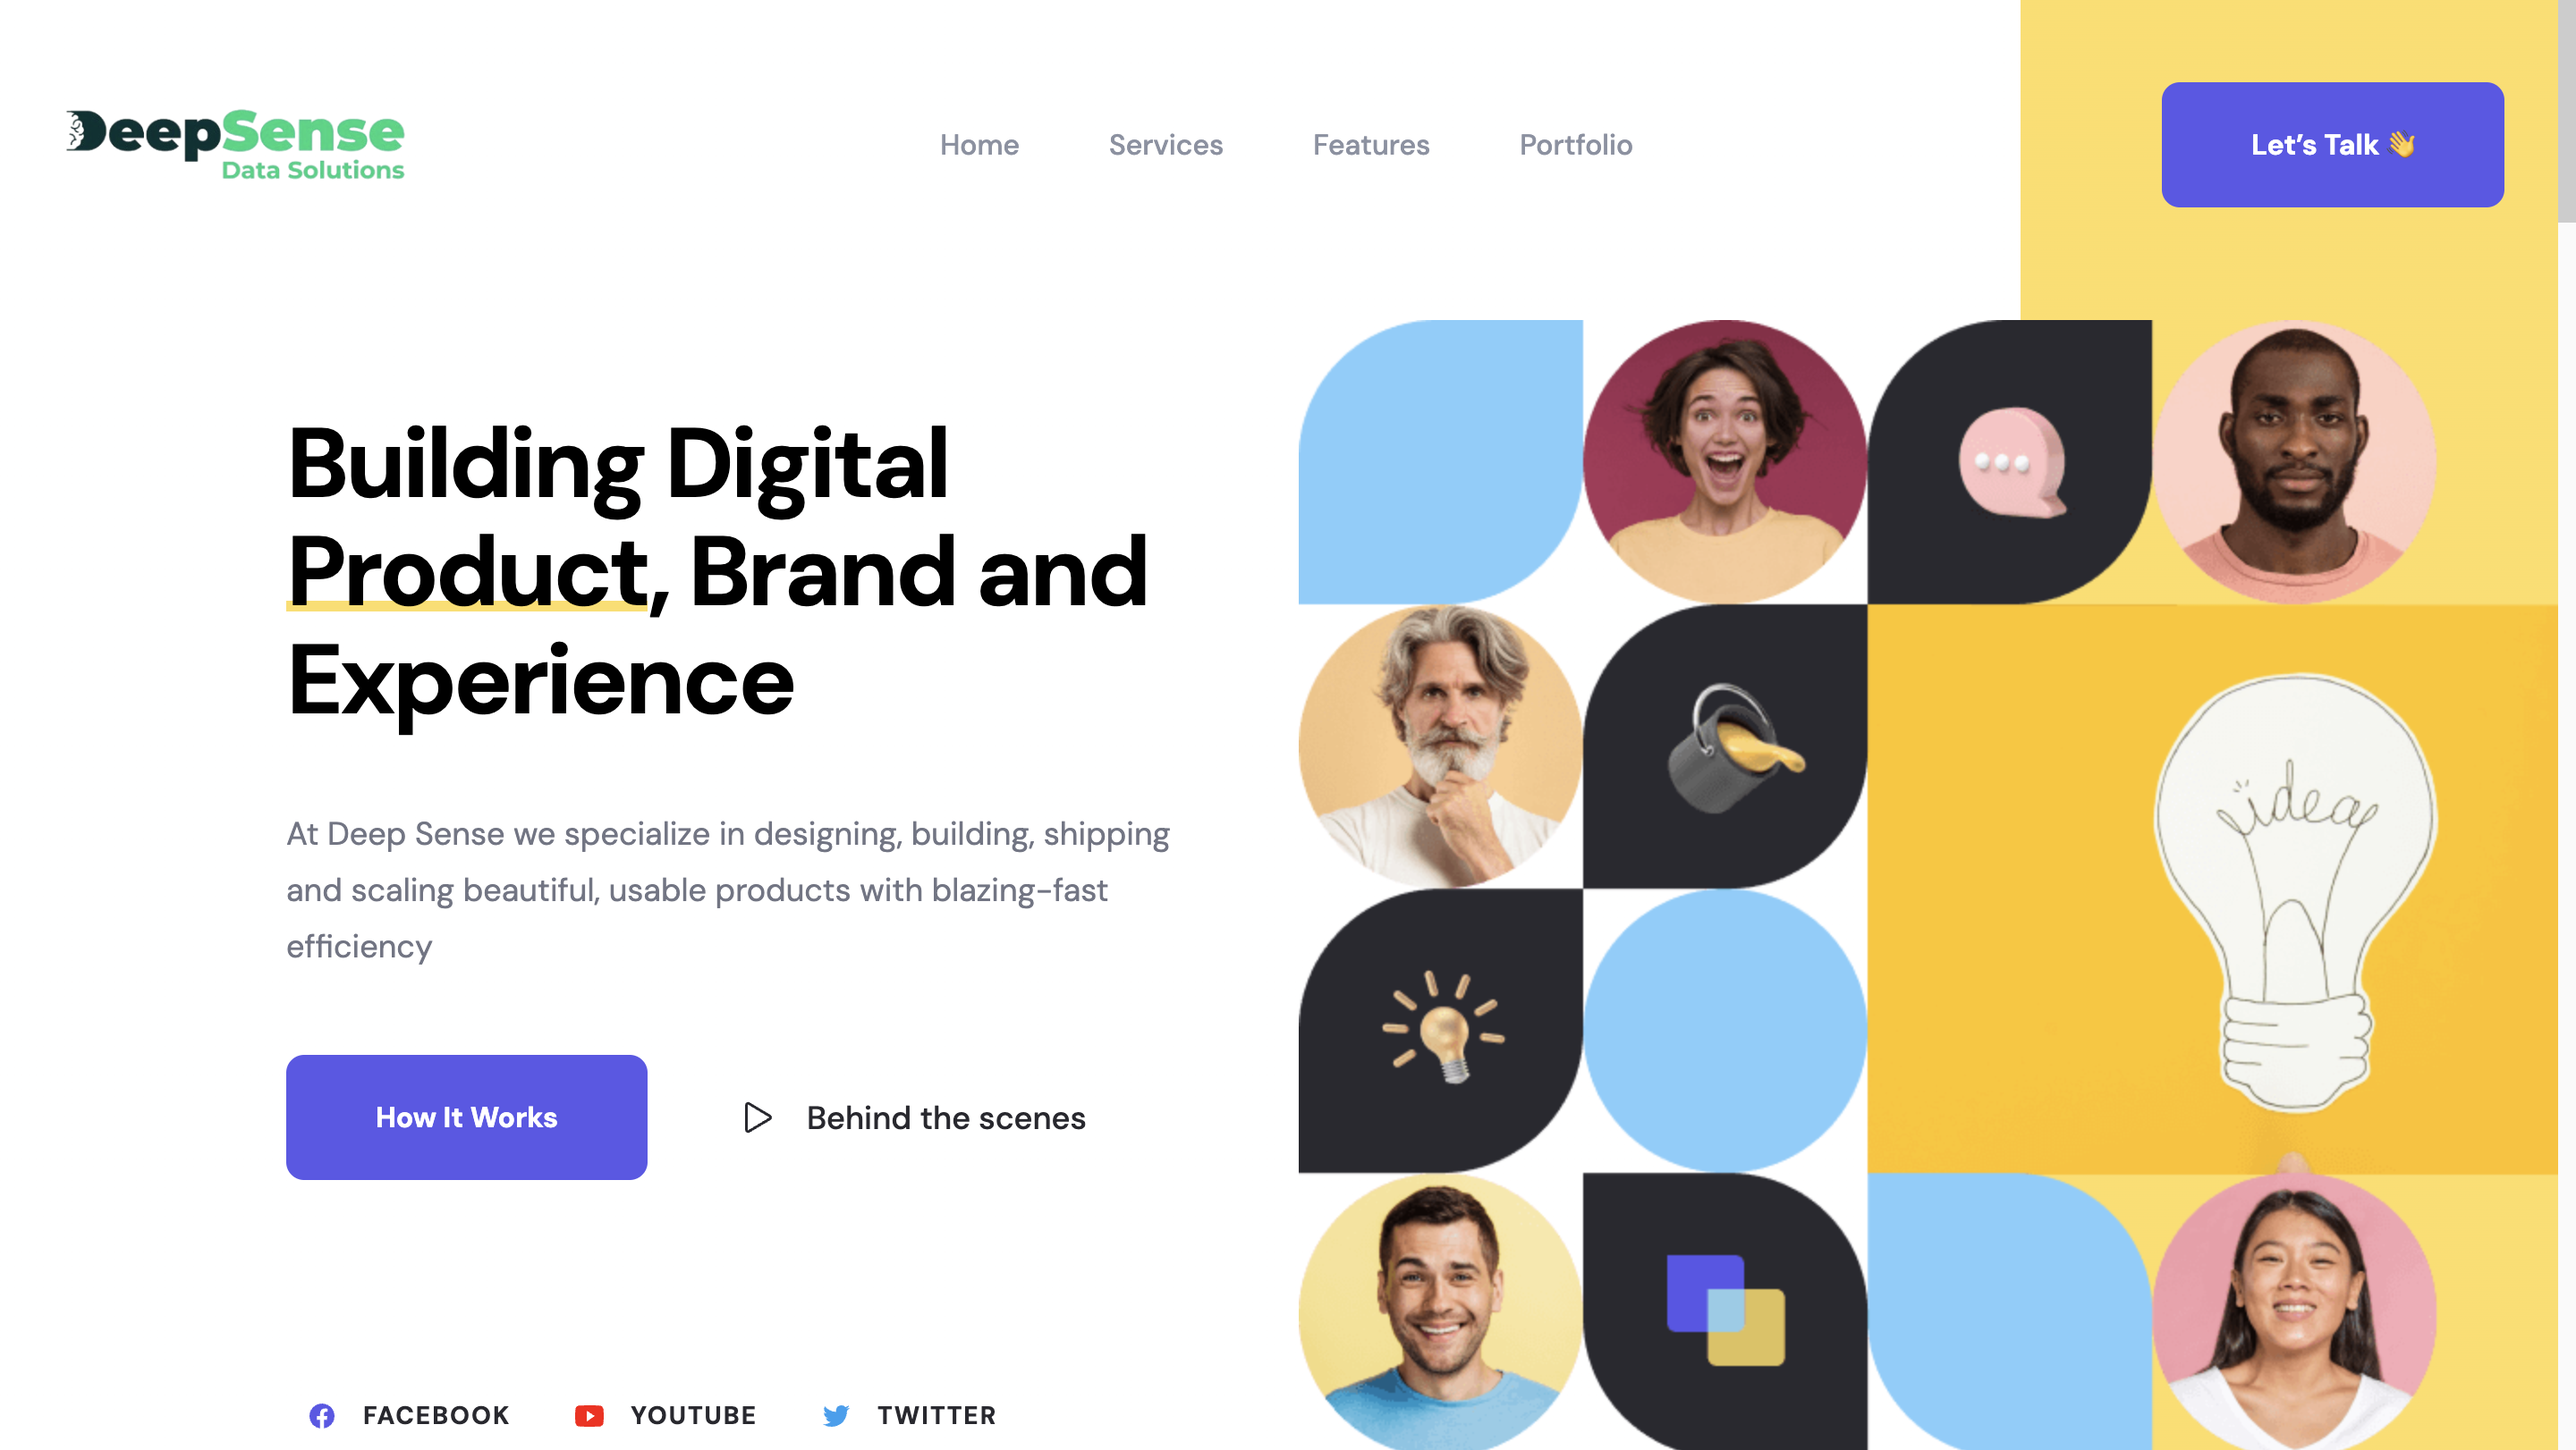
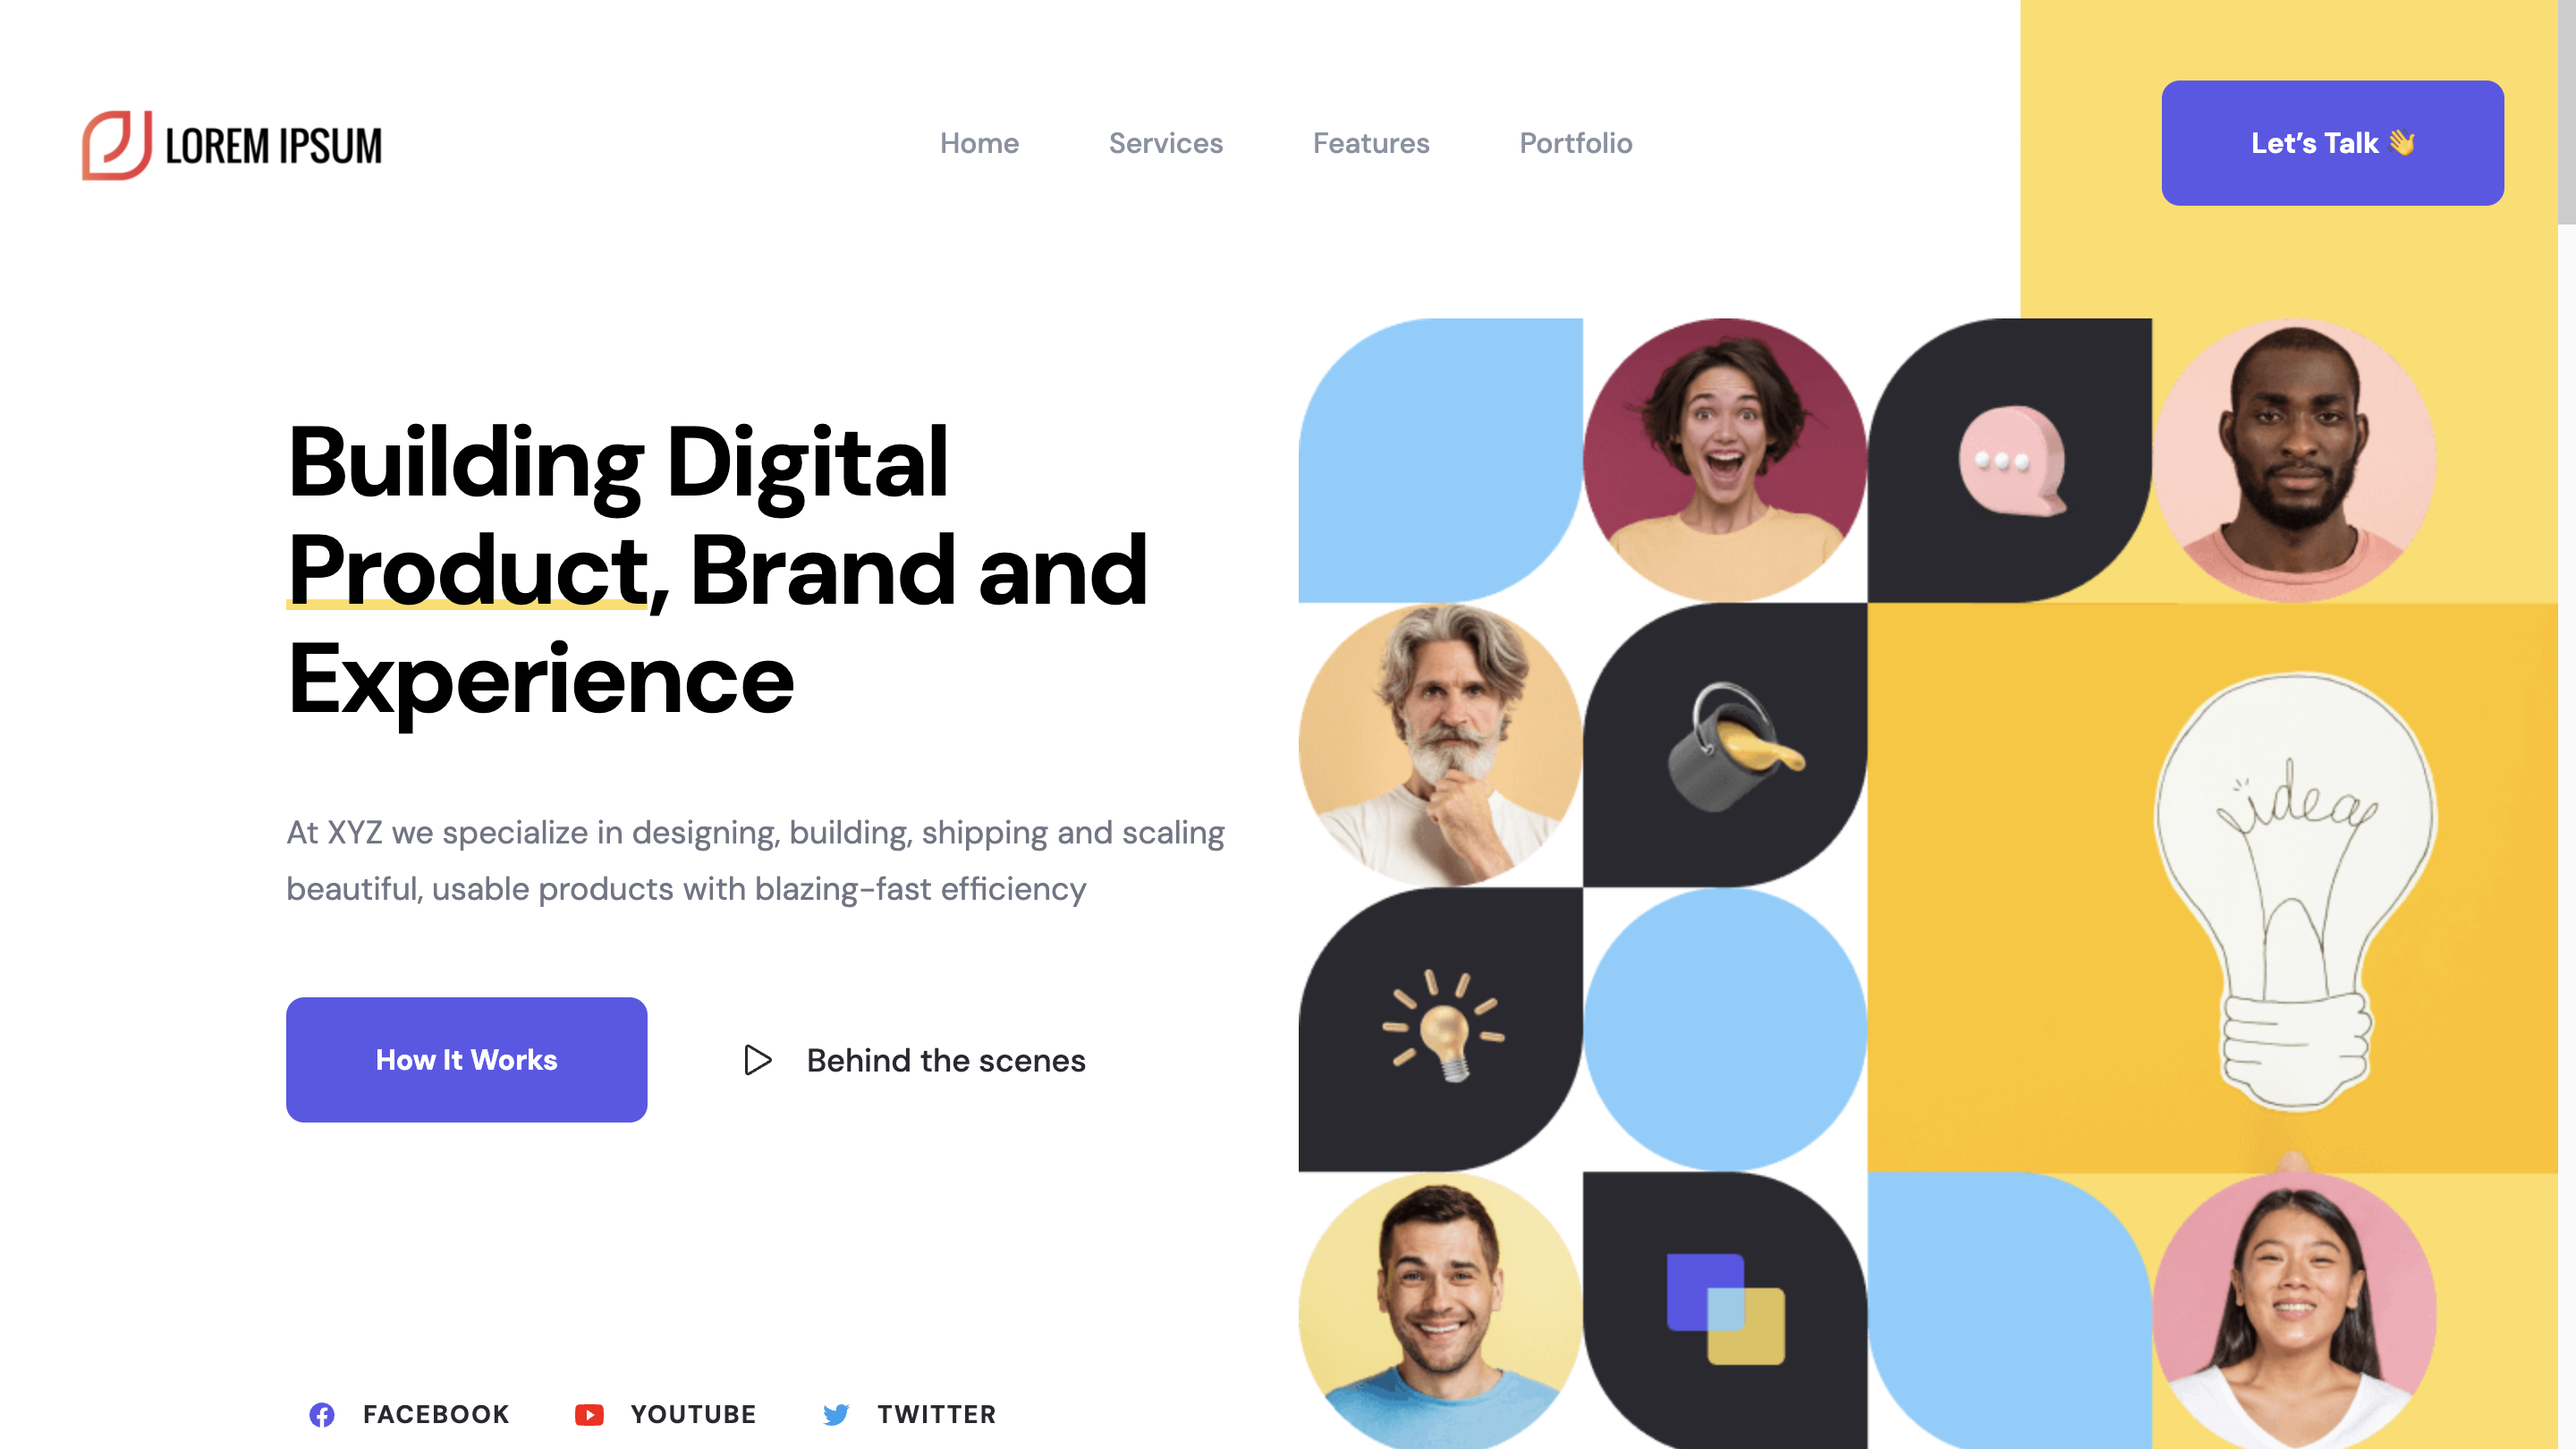
...

diff --git a/src/constants/index.ts b/src/constants/index.ts
@@ -60,7 +60,7 @@ export const PROJECTS = [
     description:
       "A professional and dynamic web presence for a leading IT company, showcasing innovative solutions and a user-centric design",
     technologies: ["HTML", "css", "javascript"],
-    link: "https://deepsense-livid.vercel.app/",
+    link: "https://xyz-it-solution.vercel.app/",
   },
   {
     title: "Job Portal",
